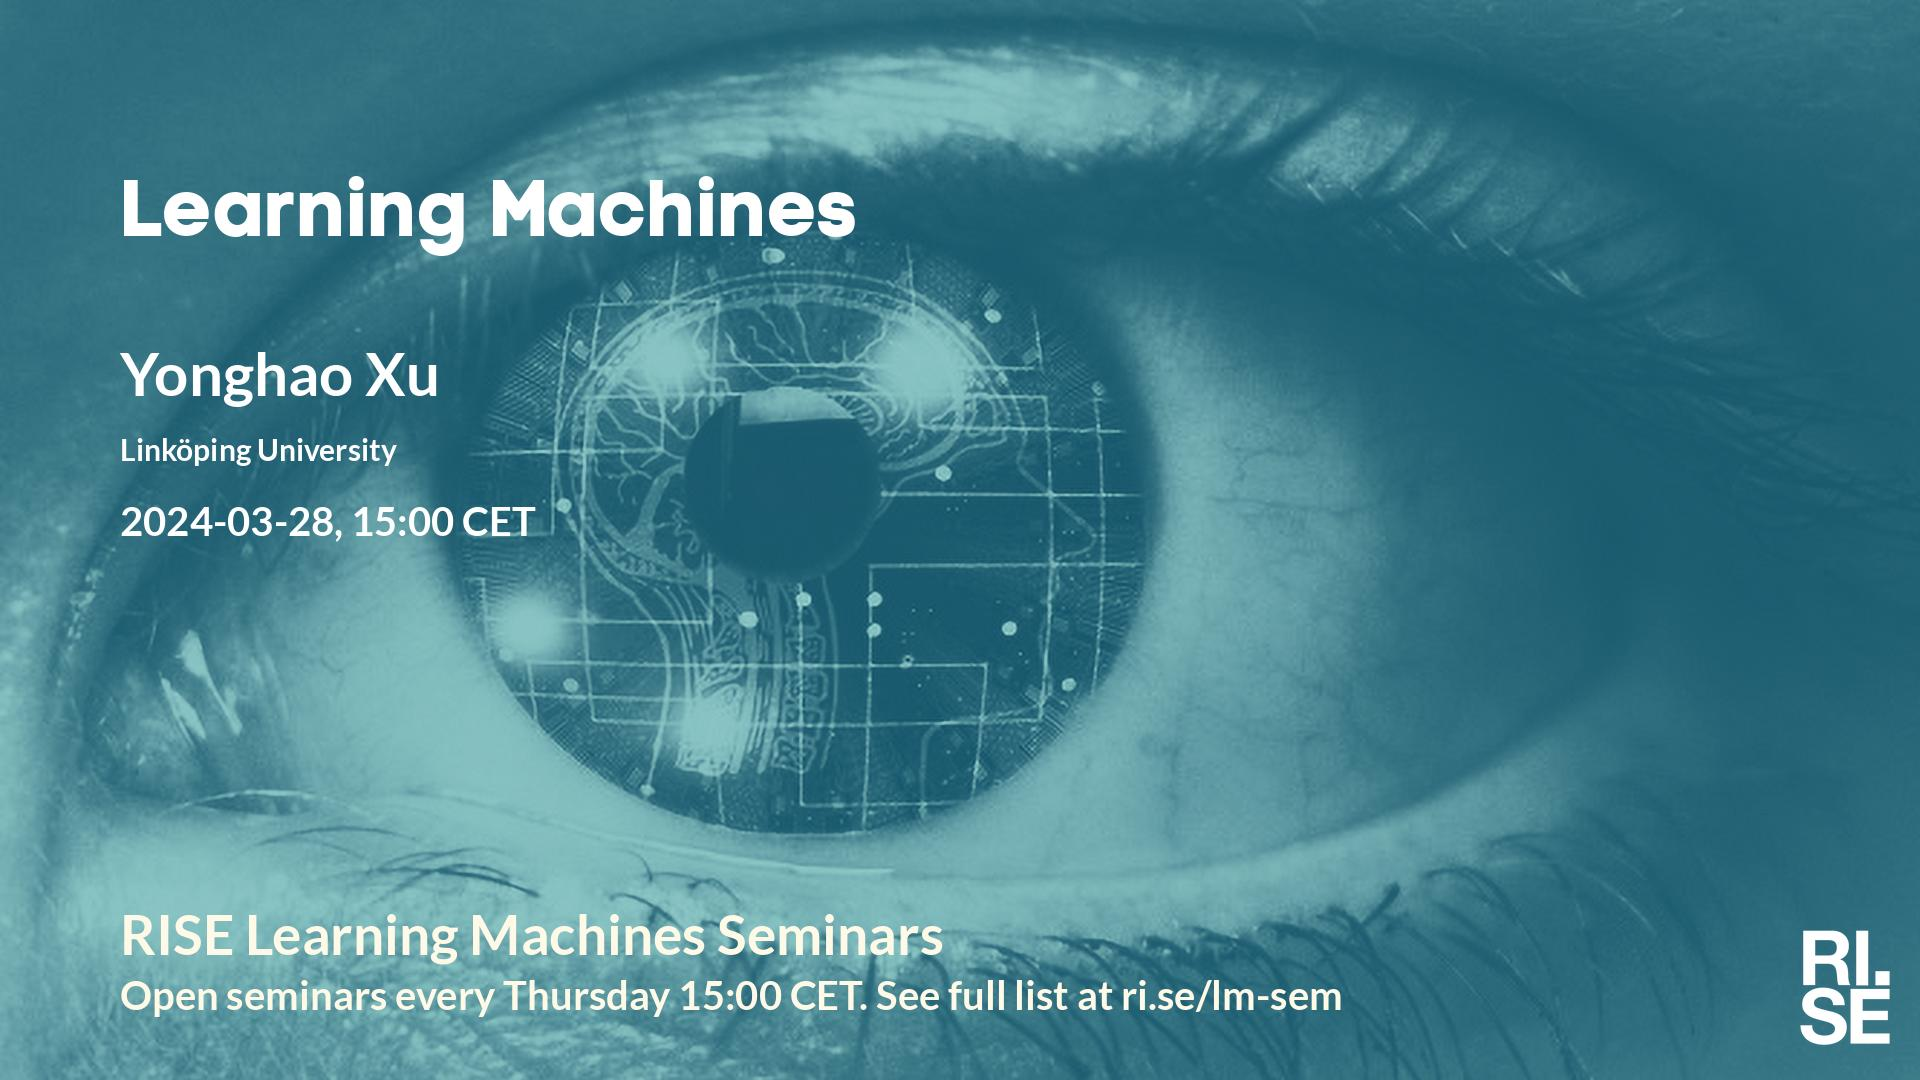
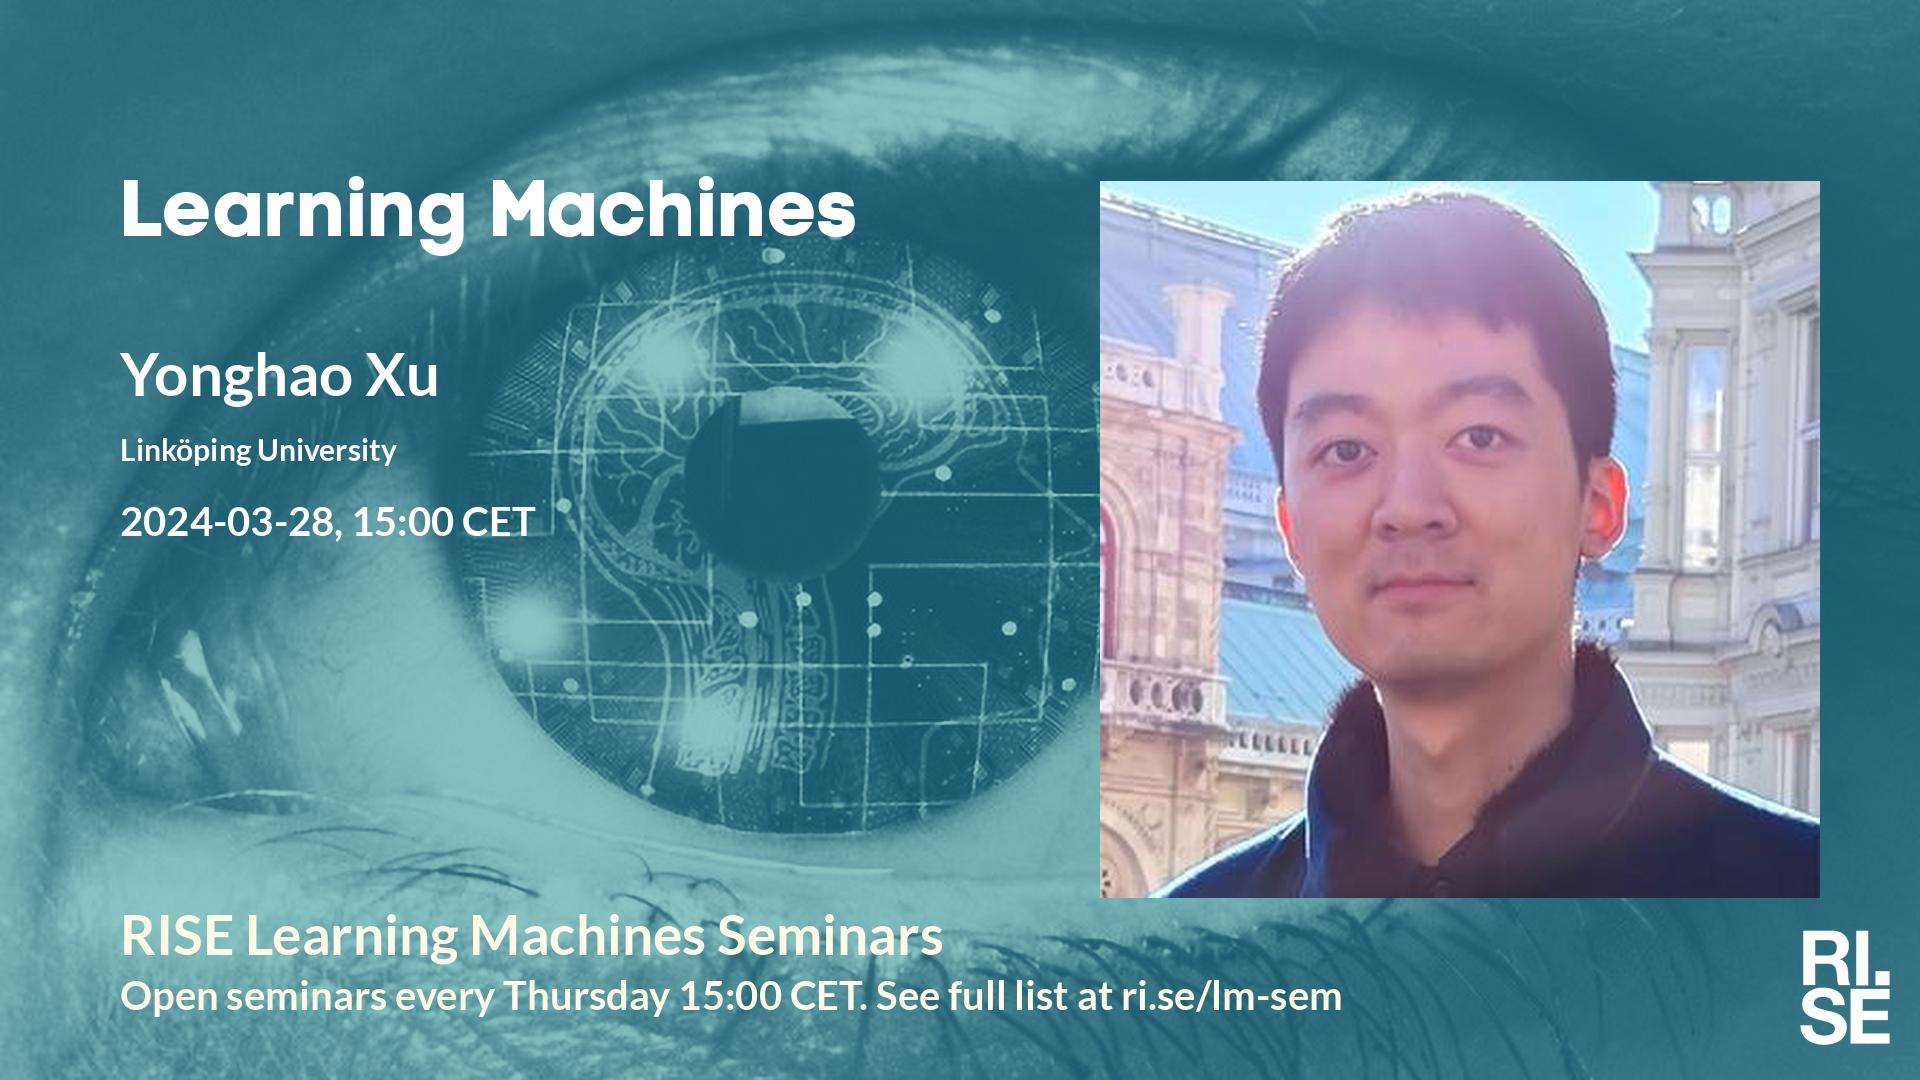
Updated plan on web site.

Changed region(s): [[0.5625, 0.1528, 0.9688, 0.8556]]

diff --git a/lm/index.md b/lm/index.md
@@ -27,7 +27,7 @@ table {border-collapse: collapse;}
 |  2024-03-07  |  [Elise van der Pol, Microsoft Research](2024-03-07.md)  |  [photo](photo-elise-van-der-pol.jpg)  |  [social media ](social-media-elise-van-der-pol.jpg)  |  [meeting backdrop ](meeting-backdrop-elise-van-der-pol.jpg)  |  [youtube thumbnail ](youtube-thumbnail-elise-van-der-pol.jpg)  |  S~~TAB~~P  |
 |  2024-03-14  |  [Santiago Martinez Balvanera, University College London](2024-03-14.md)  |  [photo](photo-santiago-martinez-balvanera.jpg)  |  [social media ](social-media-santiago-martinez-balvanera.jpg)  |  [meeting backdrop ](meeting-backdrop-santiago-martinez-balvanera.jpg)  |  [youtube thumbnail ](youtube-thumbnail-santiago-martinez-balvanera.jpg)  |  S~~TAB~~P  |
 | <span style="color:grey"> 2024-03-21 </span> | <span style="color:grey"> Karsten K. ? </span> | <span style="color:grey">  </span> | <span style="color:grey">  </span> | <span style="color:grey">  </span> | <span style="color:grey">  </span> | <span style="color:grey"> S~~TABP~~ </span> |
-|  2024-03-28  |  [Yonghao Xu, Linköping University](2024-03-28.md)  |    |  [social media ](social-media-yonghao-xu.jpg)  |  [meeting backdrop ](meeting-backdrop-yonghao-xu.jpg)  |  [youtube thumbnail ](youtube-thumbnail-yonghao-xu.jpg)  |  S~~TABP~~  |
+|  2024-03-28  |  [Yonghao Xu, Linköping University](2024-03-28.md)  |  [photo](photo-yonghao-xu.jpg)  |  [social media ](social-media-yonghao-xu.jpg)  |  [meeting backdrop ](meeting-backdrop-yonghao-xu.jpg)  |  [youtube thumbnail ](youtube-thumbnail-yonghao-xu.jpg)  |  S~~TAB~~P  |
 | <span style="color:purple"> 2024-04-04 </span> | <span style="color:purple"> *Up for grabs!!!* </span> | <span style="color:purple">  </span> | <span style="color:purple">  </span> | <span style="color:purple">  </span> | <span style="color:purple">  </span> | <span style="color:purple"> ~~STABP~~ </span> |
 | <span style="color:purple"> 2024-04-11 </span> | <span style="color:purple"> *Up for grabs!!!* </span> | <span style="color:purple">  </span> | <span style="color:purple">  </span> | <span style="color:purple">  </span> | <span style="color:purple">  </span> | <span style="color:purple"> ~~STABP~~ </span> |
 | <span style="color:purple"> 2024-04-18 </span> | <span style="color:purple"> *Up for grabs!!!* </span> | <span style="color:purple">  </span> | <span style="color:purple">  </span> | <span style="color:purple">  </span> | <span style="color:purple">  </span> | <span style="color:purple"> ~~STABP~~ </span> |
